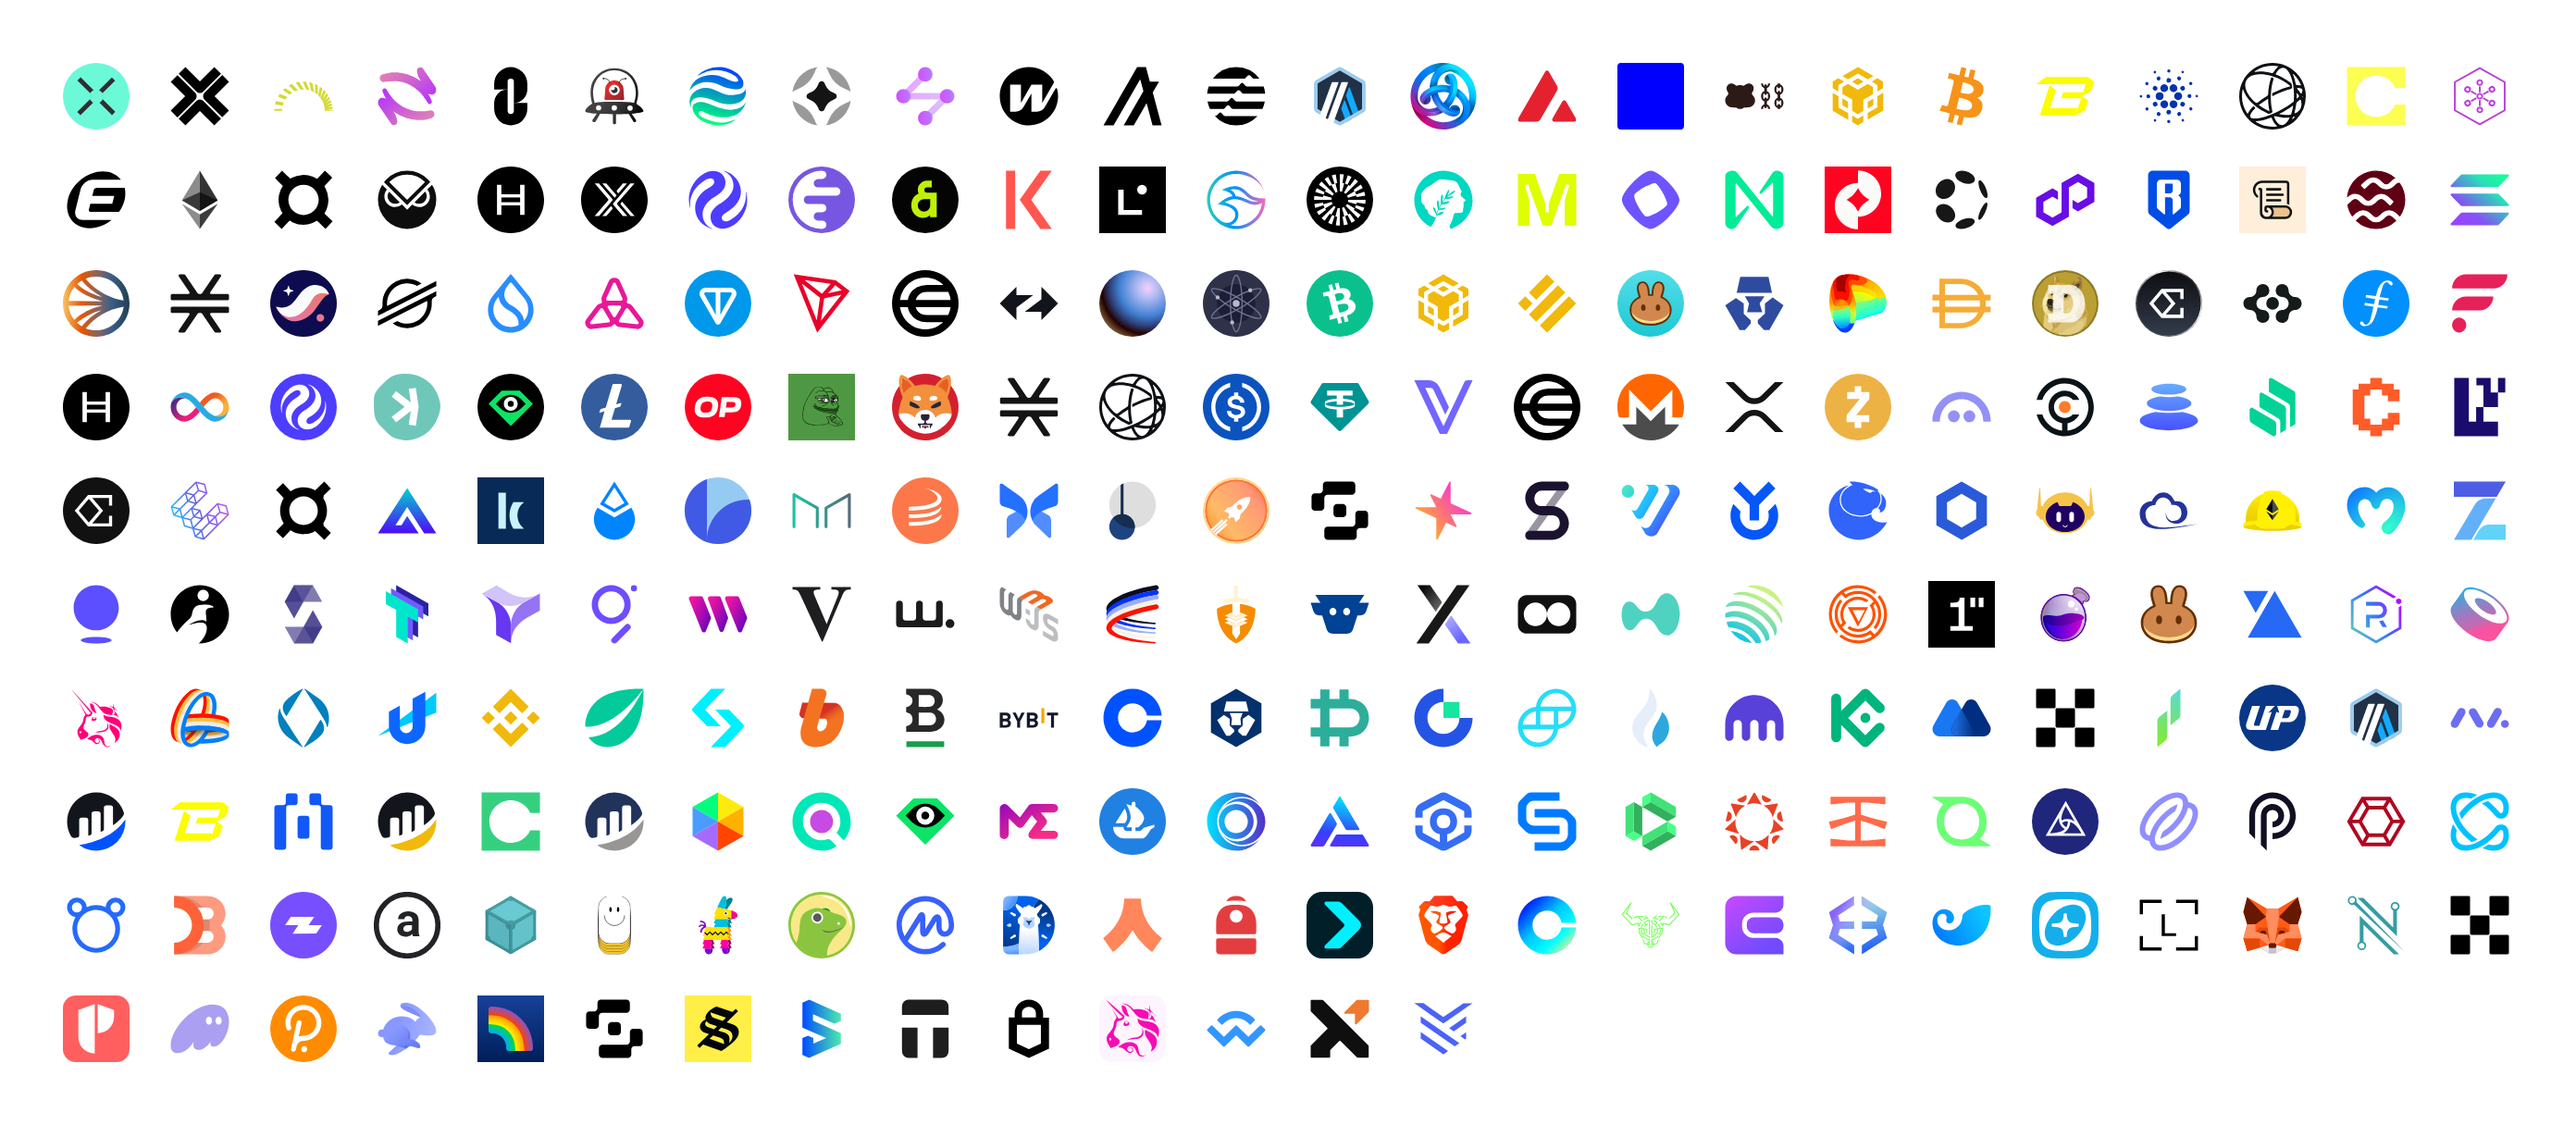
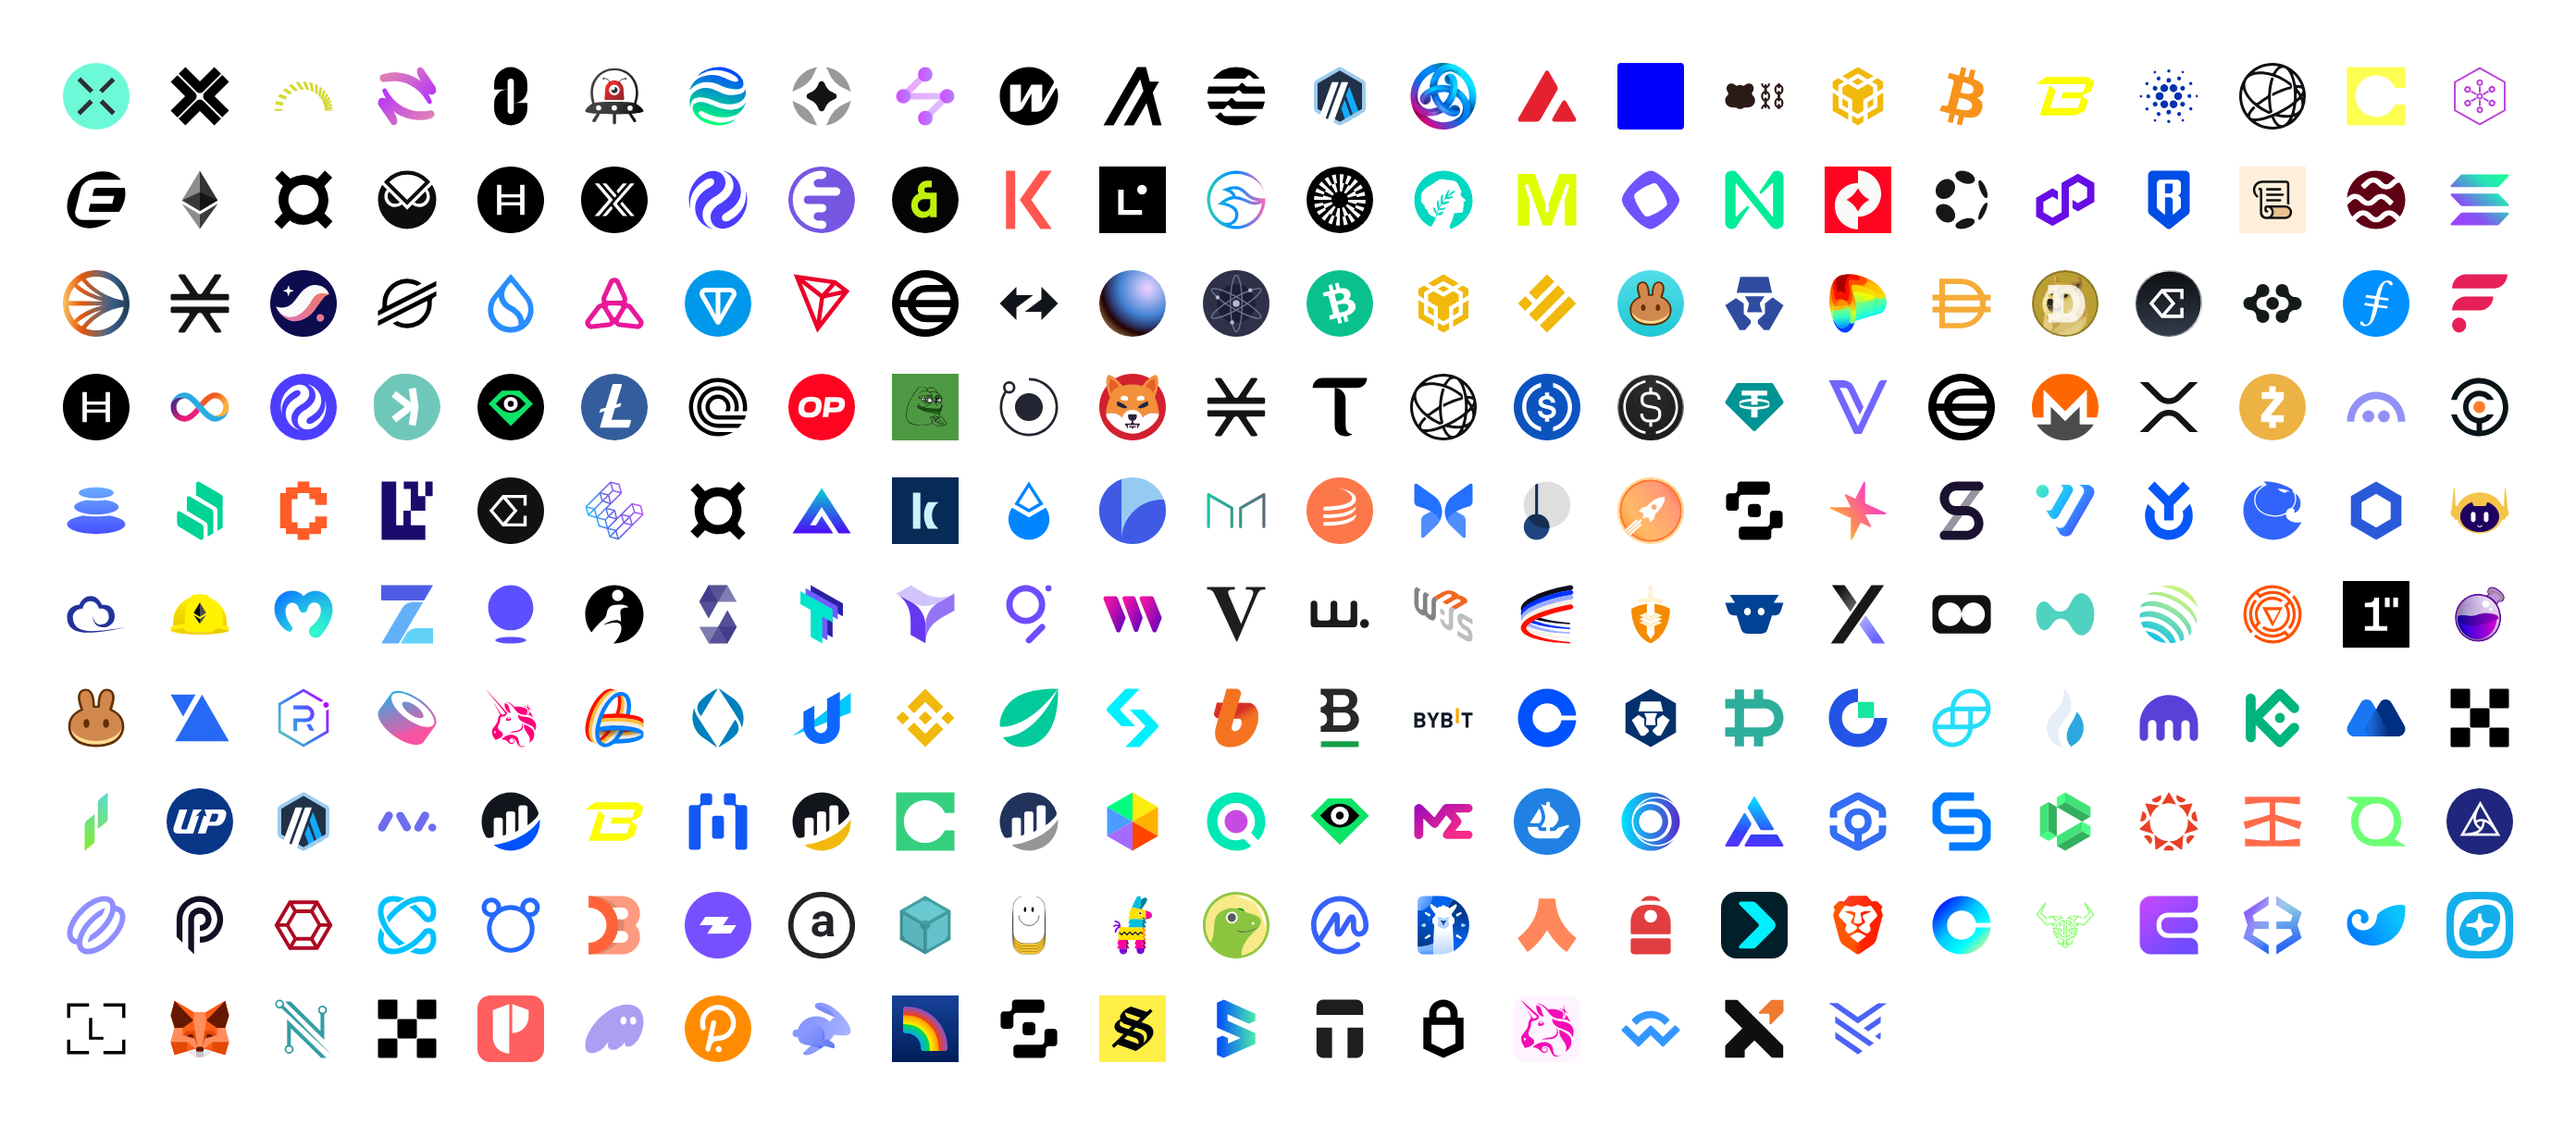
feat(coin): add Tao, Ondo, Render and Usde
Add four coin units from official brand assets (#708), each with a
Default and a Mono variant and its ticker:

- Tao (TAO): Bittensor_symbol_black_AF_RGB.svg from the Opentensor
  Foundation media kit (opentensor/developer-docs)
- Ondo (ONDO): Ondo Icon.svg from the Ondo Media Kit
- Render (RENDER, RNDR): the symbol of rendernetwork.com's
  logo-footer.svg lockup
- Usde (USDE): ethena.fi/shared/usde.svg, a container on the grid

Claude-Session: https://claude.ai/code/session_0113jxgcTGsEPf2j7H39sjZS

Changed region(s): [[0.0, 0.3125, 1.0, 0.9688]]

diff --git a/src/coin/Usde.tsx b/src/coin/Usde.tsx
@@ -1,0 +1,78 @@
+import { createIcon } from '../utils';
+
+// Source: https://ethena.fi/shared/usde.svg (official site; media assets: https://docs.ethena.fi/resources/media-assets)
+// Colored: the official usde.svg unchanged (#111111 disc under a #3A3A3A to #1C1C1C radial highlight at 0.7 opacity, white side arcs and $, white to #111111 rim stroke), with its gradient ids renamed; placed on the 64 grid as a container
+// Mono: the disc (out to the rim stroke) in currentColor with the two arcs and the $ of the same paths knocked out (evenodd); the radial highlight and the rim gradient are shading and are dropped
+/** Usde coin icon (colored). */
+export const Usde = /* @__PURE__ */ createIcon(
+  'Usde',
+  '0 0 64 64',
+  (_props, _id) => (
+    <g transform="translate(-.06 -.06)scale(.16112)">
+      <path
+        fill="#111111"
+        stroke="#111111"
+        strokeWidth="7.05"
+        d="M199 7.53c105.75 0 191.48 85.72 191.48 191.47S304.75 390.49 199 390.49 7.52 304.75 7.52 199.01V199C7.52 93.25 93.25 7.53 199 7.53Z"
+      />
+      <path
+        fill={`url(#${_id}-usde-a)`}
+        fillOpacity=".7"
+        d="M199 4C91.3 4 4 91.3 4 199s87.3 195 195 195 195-87.3 195-195S306.7 4 199 4"
+      />
+      <path
+        stroke={`url(#${_id}-usde-b)`}
+        strokeWidth="7.14"
+        d="M199 4C91.3 4 4 91.3 4 199s87.3 195 195 195 195-87.3 195-195S306.7 4 199 4Z"
+      />
+      <path
+        fill="white"
+        fillRule="evenodd"
+        d="M167.8 38.56c-75.3 14.5-132.2 80.76-132.2 160.3s56.9 145.8 132.2 160.3v-15.3c-66.97-14.27-117.2-73.77-117.2-145s50.23-130.72 117.2-145zm62.4 15.36v-15.3c75.17 14.6 131.92 80.8 131.92 160.24S305.37 344.5 230.2 359.11v-15.3c66.83-14.39 116.92-73.82 116.92-144.95S297.03 68.3 230.2 53.92"
+        clipRule="evenodd"
+      />
+      <path
+        fill="white"
+        d="M222.12 193.4q18.69 3.57 28.98 13.74 10.3 9.93 10.3 25.44v16.28q0 18.56-13.41 30-13.41 11.2-35.21 11.2h-5.03V316H190.5v-25.94h-5.27q-14.37 0-25.4-6.36-11.01-6.6-17.24-18.31-6-11.96-5.99-27.47h17.25q0 15.77 8.62 25.69 8.87 9.66 23.24 9.66h26.59q14.13 0 22.75-6.61 8.63-6.87 8.63-17.8v-16.28q0-8.66-6.47-14.76-6.23-6.1-17.25-7.88l-43.11-7.63q-18.2-3.3-28.27-13.74-10.05-10.42-10.06-26.2v-13.73q0-18.57 12.93-29.5 13.18-11.2 34.74-11.2h4.31V82h17.25v25.94h5.5q20.37 0 32.82 13.23 12.45 12.98 12.46 34.34h-17.25q0-14-7.66-22.38-7.67-8.4-20.36-8.4h-27.07q-13.65 0-21.8 6.61-8.14 6.36-8.14 17.3v13.74q0 8.9 5.98 15 6.24 6.1 17.01 8.14z"
+      />
+      <defs>
+        <radialGradient
+          id={`${_id}-usde-a`}
+          cx="0"
+          cy="0"
+          r="1"
+          gradientTransform="matrix(0 411.151 -289.409 0 199.42 60.95)"
+          gradientUnits="userSpaceOnUse"
+        >
+          <stop offset=".03" stopColor="#3A3A3A" />
+          <stop offset="1" stopColor="#1C1C1C" />
+        </radialGradient>
+        <linearGradient
+          id={`${_id}-usde-b`}
+          x1="199"
+          x2="199"
+          y1=".32"
+          y2="397.69"
+          gradientUnits="userSpaceOnUse"
+        >
+          <stop stopColor="white" />
+          <stop offset="1" stopColor="#111111" />
+        </linearGradient>
+      </defs>
+    </g>
+  ),
+  { fill: 'none', ids: true },
+);
+
+/** Usde coin icon (monochrome). */
+export const UsdeMono = /* @__PURE__ */ createIcon(
+  'UsdeMono',
+  '0 0 64 64',
+  () => (
+    <path
+      fillRule="evenodd"
+      d="M32 0a32 32 0 1 0 0 64 32 32 0 1 0 0-64m-5.03 6.15C14.84 8.5 5.67 19.16 5.67 31.98s9.17 23.49 21.3 25.83v-2.47C16.18 53.04 8.1 43.45 8.1 31.98s8.1-21.06 18.88-23.36zm10.06 2.48V6.16c12.1 2.35 21.25 13.02 21.25 25.82S49.14 55.44 37.03 57.8v-2.47c10.76-2.32 18.84-11.9 18.84-23.35S47.79 10.94 37.03 8.63m-1.3 22.47q3 .57 4.66 2.21 1.66 1.6 1.66 4.1v2.62q0 3-2.16 4.84-2.16 1.8-5.67 1.8h-.81v4.18h-2.78v-4.18h-.85q-2.31 0-4.1-1.02-1.76-1.07-2.77-2.95-.96-1.93-.96-4.43h2.78q0 2.54 1.38 4.14 1.43 1.56 3.75 1.56h4.28q2.28 0 3.67-1.07 1.39-1.1 1.39-2.87v-2.62q0-1.4-1.04-2.38-1-.98-2.78-1.27l-6.95-1.23q-2.93-.53-4.55-2.21t-1.62-4.22v-2.21q0-3 2.08-4.76 2.12-1.8 5.6-1.8h.7v-4.18h2.77v4.18h.89q3.28 0 5.28 2.13 2.01 2.1 2.01 5.53h-2.78q0-2.25-1.23-3.6-1.24-1.36-3.28-1.36h-4.36q-2.2 0-3.52 1.07-1.3 1.02-1.3 2.79v2.21q0 1.43.96 2.42 1 .98 2.74 1.3z"
+    />
+  ),
+  { fill: 'currentColor' },
+);

diff --git a/src/coin/Render.tsx b/src/coin/Render.tsx
@@ -1,0 +1,33 @@
+import { createIcon } from '../utils';
+
+// Source: https://rendernetwork.com/api/medias/file/logo-footer.svg (official Render Network site lockup; the Render Network Foundation press page, https://renderfoundation.com/press, offers the logos as PNG only)
+// Colored: the symbol (ring with its satellite and the centre dot, one #242532 evenodd path) copied unchanged out of the official logo-footer.svg lockup (the Render Network lettering is left out), placed on the 64 grid
+// Mono: the same path in currentColor
+/** Render coin icon (colored). */
+export const Render = /* @__PURE__ */ createIcon(
+  'Render',
+  '0 0 64 64',
+  () => (
+    <path
+      fill="#242532"
+      fillRule="evenodd"
+      d="M32 4c7.47 0 14.51 2.92 19.79 8.2C57.1 17.5 60 24.52 60 32s-2.92 14.51-8.2 19.8C46.5 57.1 39.48 60 32 60s-14.51-2.92-19.8-8.2C6.9 46.5 4 39.48 4 32c0-5.41 1.52-10.62 4.43-15.1a5.8 5.8 0 0 1-1.37-3.82 6.03 6.03 0 0 1 6.02-6.02 6.03 6.03 0 0 1 6.02 6.02 6.03 6.03 0 0 1-6.02 6.02q-1.5-.02-2.77-.68a25.7 25.7 0 0 0-3.9 13.57c0 6.83 2.66 13.26 7.5 18.08A25.4 25.4 0 0 0 32 57.58c6.84 0 13.25-2.66 18.08-7.49A25.4 25.4 0 0 0 57.58 32c0-6.84-2.66-13.27-7.5-18.08A25.4 25.4 0 0 0 32 6.4zm-15.32 9.08a3.6 3.6 0 0 0-3.6-3.6 3.6 3.6 0 0 0-3.6 3.62 3.6 3.6 0 0 0 3.62 3.6 3.6 3.6 0 0 0 3.6-3.61M45.4 32c0 7.4-6 13.4-13.4 13.4s-13.4-6-13.4-13.4 6-13.4 13.4-13.4 13.4 6 13.4 13.4"
+      clipRule="evenodd"
+    />
+  ),
+  {},
+);
+
+/** Render coin icon (monochrome). */
+export const RenderMono = /* @__PURE__ */ createIcon(
+  'RenderMono',
+  '0 0 64 64',
+  () => (
+    <path
+      fillRule="evenodd"
+      d="M32 4c7.47 0 14.51 2.92 19.79 8.2C57.1 17.5 60 24.52 60 32s-2.92 14.51-8.2 19.8C46.5 57.1 39.48 60 32 60s-14.51-2.92-19.8-8.2C6.9 46.5 4 39.48 4 32c0-5.41 1.52-10.62 4.43-15.1a5.8 5.8 0 0 1-1.37-3.82 6.03 6.03 0 0 1 6.02-6.02 6.03 6.03 0 0 1 6.02 6.02 6.03 6.03 0 0 1-6.02 6.02q-1.5-.02-2.77-.68a25.7 25.7 0 0 0-3.9 13.57c0 6.83 2.66 13.26 7.5 18.08A25.4 25.4 0 0 0 32 57.58c6.84 0 13.25-2.66 18.08-7.49A25.4 25.4 0 0 0 57.58 32c0-6.84-2.66-13.27-7.5-18.08A25.4 25.4 0 0 0 32 6.4zm-15.32 9.08a3.6 3.6 0 0 0-3.6-3.6 3.6 3.6 0 0 0-3.6 3.62 3.6 3.6 0 0 0 3.62 3.6 3.6 3.6 0 0 0 3.6-3.61M45.4 32c0 7.4-6 13.4-13.4 13.4s-13.4-6-13.4-13.4 6-13.4 13.4-13.4 13.4 6 13.4 13.4"
+      clipRule="evenodd"
+    />
+  ),
+  { fill: 'currentColor' },
+);

diff --git a/src/coin/Ondo.tsx b/src/coin/Ondo.tsx
@@ -1,0 +1,41 @@
+import { createIcon } from '../utils';
+
+// Source: https://www.notion.so/Ondo-Media-Kit-3bc0a5aced014cc4b0ef62f1638bbf8e (official Ondo Media Kit, linked from https://docs.ondo.finance/ondo-stocks/partners-and-media)
+// Colored: the kit's Ondo Icon.svg (Ondo Icon section), its three black paths unchanged, placed on the 64 grid
+// Mono: the same three paths in currentColor
+/** Ondo coin icon (colored). */
+export const Ondo = /* @__PURE__ */ createIcon(
+  'Ondo',
+  '0 0 64 64',
+  () => (
+    <>
+      <path
+        fill="black"
+        d="M24.01 32c0-4.4 3.58-7.98 8-7.98S40 27.59 40 32a8 8 0 0 1-1.08 4h4.39q.67-1.9.68-4c0-6.62-5.37-12-11.99-12s-11.99 5.38-11.99 12 5.37 12 12 12h25.28a27 27 0 0 0 1.53-4H32a8 8 0 0 1-7.99-8"
+      />
+      <path
+        fill="black"
+        d="M16.02 32c0-8.82 7.15-15.98 15.98-15.98s16 7.16 16 15.99a16 16 0 0 1-.51 4h4.1q.4-1.95.4-4c0-11.04-8.95-19.99-19.99-19.99s-19.98 8.95-19.98 19.99S20.96 52 32 52h19.58a28 28 0 0 0 3.39-4H32c-8.83 0-15.98-7.16-15.98-16"
+      />
+      <path
+        fill="black"
+        d="M32 4.03C16.55 4.03 4.02 16.55 4.02 32S16.55 59.99 32 59.99c5.27 0 10.2-1.46 14.42-4H32C18.76 56 8.01 45.26 8.01 32.01s10.75-23.99 24-23.99 23.98 10.74 23.98 23.99q0 2.04-.34 4h4.05l.13-1.01.03-.41q.06-.57.09-1.14l.02-.72.01-.72C59.98 16.55 47.46 4.02 32 4.02"
+      />
+    </>
+  ),
+  {},
+);
+
+/** Ondo coin icon (monochrome). */
+export const OndoMono = /* @__PURE__ */ createIcon(
+  'OndoMono',
+  '0 0 64 64',
+  () => (
+    <>
+      <path d="M24.01 32c0-4.4 3.58-7.98 8-7.98S40 27.59 40 32a8 8 0 0 1-1.08 4h4.39q.67-1.9.68-4c0-6.62-5.37-12-11.99-12s-11.99 5.38-11.99 12 5.37 12 12 12h25.28a27 27 0 0 0 1.53-4H32a8 8 0 0 1-7.99-8" />
+      <path d="M16.02 32c0-8.82 7.15-15.98 15.98-15.98s16 7.16 16 15.99a16 16 0 0 1-.51 4h4.1q.4-1.95.4-4c0-11.04-8.95-19.99-19.99-19.99s-19.98 8.95-19.98 19.99S20.96 52 32 52h19.58a28 28 0 0 0 3.39-4H32c-8.83 0-15.98-7.16-15.98-16" />
+      <path d="M32 4.03C16.55 4.03 4.02 16.55 4.02 32S16.55 59.99 32 59.99c5.27 0 10.2-1.46 14.42-4H32C18.76 56 8.01 45.26 8.01 32.01s10.75-23.99 24-23.99 23.98 10.74 23.98 23.99q0 2.04-.34 4h4.05l.13-1.01.03-.41q.06-.57.09-1.14l.02-.72.01-.72C59.98 16.55 47.46 4.02 32 4.02" />
+    </>
+  ),
+  { fill: 'currentColor' },
+);

diff --git a/src/manifest/index.ts b/src/manifest/index.ts
@@ -869,6 +869,8 @@ export const ICON_MANIFEST: readonly IconManifestEntry[] = [
   { name: 'MonadMono', category: 'coin' },
   { name: 'Near', category: 'coin', ticker: 'NEAR' },
   { name: 'NearMono', category: 'coin' },
+  { name: 'Ondo', category: 'coin', ticker: 'ONDO', variants: ['', 'Mono'] },
+  { name: 'OndoMono', category: 'coin' },
   {
     name: 'Op',
     category: 'coin',
@@ -893,6 +895,14 @@ export const ICON_MANIFEST: readonly IconManifestEntry[] = [
   { name: 'PolMono', category: 'coin' },
   { name: 'Pyth', category: 'coin', ticker: 'PYTH' },
   { name: 'PythMono', category: 'coin' },
+  {
+    name: 'Render',
+    category: 'coin',
+    ticker: 'RENDER',
+    variants: ['', 'Mono'],
+    brandColor: '#242532',
+  },
+  { name: 'RenderMono', category: 'coin' },
   { name: 'Ronin', category: 'coin', ticker: 'RON' },
   { name: 'RoninMono', category: 'coin' },
   { name: 'Sei', category: 'coin', ticker: 'SEI' },
@@ -929,6 +939,8 @@ export const ICON_MANIFEST: readonly IconManifestEntry[] = [
   { name: 'SuiMono', category: 'coin' },
   { name: 'Taiko', category: 'coin', ticker: 'TAIKO' },
   { name: 'TaikoMono', category: 'coin' },
+  { name: 'Tao', category: 'coin', ticker: 'TAO', variants: ['', 'Mono'] },
+  { name: 'TaoMono', category: 'coin' },
   {
     name: 'Tia',
     category: 'coin',
@@ -953,6 +965,14 @@ export const ICON_MANIFEST: readonly IconManifestEntry[] = [
   { name: 'UsdcCircle', category: 'coin' },
   { name: 'UsdcCircleMono', category: 'coin' },
   { name: 'UsdcMono', category: 'coin' },
+  {
+    name: 'Usde',
+    category: 'coin',
+    ticker: 'USDE',
+    variants: ['', 'Mono'],
+    brandColor: '#111111',
+  },
+  { name: 'UsdeMono', category: 'coin' },
   {
     name: 'Usdt',
     category: 'coin',

diff --git a/src/dynamic/imports/coin.ts b/src/dynamic/imports/coin.ts
@@ -112,6 +112,8 @@ export const coinImports: Record<
   MonadMono: () => import('../../coin/Monad'),
   Near: () => import('../../coin/Near'),
   NearMono: () => import('../../coin/Near'),
+  Ondo: () => import('../../coin/Ondo'),
+  OndoMono: () => import('../../coin/Ondo'),
   Op: () => import('../../coin/Op'),
   OpCircle: () => import('../../coin/Op'),
   OpCircleMono: () => import('../../coin/Op'),
@@ -124,6 +126,8 @@ export const coinImports: Record<
   PolMono: () => import('../../coin/Pol'),
   Pyth: () => import('../../coin/Pyth'),
   PythMono: () => import('../../coin/Pyth'),
+  Render: () => import('../../coin/Render'),
+  RenderMono: () => import('../../coin/Render'),
   Ronin: () => import('../../coin/Ronin'),
   RoninMono: () => import('../../coin/Ronin'),
   Sei: () => import('../../coin/Sei'),
@@ -148,6 +152,8 @@ export const coinImports: Record<
   SuiMono: () => import('../../coin/Sui'),
   Taiko: () => import('../../coin/Taiko'),
   TaikoMono: () => import('../../coin/Taiko'),
+  Tao: () => import('../../coin/Tao'),
+  TaoMono: () => import('../../coin/Tao'),
   Tia: () => import('../../coin/Tia'),
   TiaMono: () => import('../../coin/Tia'),
   Ton: () => import('../../coin/Ton'),
@@ -160,6 +166,8 @@ export const coinImports: Record<
   UsdcCircle: () => import('../../coin/Usdc'),
   UsdcCircleMono: () => import('../../coin/Usdc'),
   UsdcMono: () => import('../../coin/Usdc'),
+  Usde: () => import('../../coin/Usde'),
+  UsdeMono: () => import('../../coin/Usde'),
   Usdt: () => import('../../coin/Usdt'),
   UsdtCircle: () => import('../../coin/Usdt'),
   UsdtCircleMono: () => import('../../coin/Usdt'),

diff --git a/src/coin/Tao.tsx b/src/coin/Tao.tsx
@@ -1,0 +1,30 @@
+import { createIcon } from '../utils';
+
+// Source: https://github.com/opentensor/developer-docs/blob/f6dd8e948952a7bb7ceab6f67d07d7c6d992e995/static/bittensor-media-assets/Bittensor-mediaassets-2024Dec02.zip (official Bittensor media assets of the Opentensor Foundation, the kit the Bittensor docs' Media Assets page linked)
+// Colored: the kit's TAO symbol, Bittensor community assets/Symbol/Black/RGB/Bittensor_symbol_black_AF_RGB.svg, its two paths unchanged (black, the kit's only colours are black, white and greys), placed on the 64 grid; the kit has no token disc
+// Mono: the same two paths in currentColor
+/** Tao coin icon (colored). */
+export const Tao = /* @__PURE__ */ createIcon(
+  'Tao',
+  '0 0 64 64',
+  () => (
+    <>
+      <path d="M37.55 46.97V24c0-5.73-4.73-10.4-10.47-10.4v36.68c0 7.3 6.2 9.71 10.02 9.71 3.17 0 4.96-.55 7.11-2.06-6.03-.64-6.66-4.28-6.66-10.97" />
+      <path d="M15.42 4c-5.27 0-9.55 4.35-9.55 9.62h42.71c5.27 0 9.55-4.36 9.55-9.62z" />
+    </>
+  ),
+  {},
+);
+
+/** Tao coin icon (monochrome). */
+export const TaoMono = /* @__PURE__ */ createIcon(
+  'TaoMono',
+  '0 0 64 64',
+  () => (
+    <>
+      <path d="M37.55 46.97V24c0-5.73-4.73-10.4-10.47-10.4v36.68c0 7.3 6.2 9.71 10.02 9.71 3.17 0 4.96-.55 7.11-2.06-6.03-.64-6.66-4.28-6.66-10.97" />
+      <path d="M15.42 4c-5.27 0-9.55 4.35-9.55 9.62h42.71c5.27 0 9.55-4.36 9.55-9.62z" />
+    </>
+  ),
+  { fill: 'currentColor' },
+);

diff --git a/src/coin/index.ts b/src/coin/index.ts
@@ -42,10 +42,12 @@ export * from './Mkr';
 export * from './Mnt';
 export * from './Monad';
 export * from './Near';
+export * from './Ondo';
 export * from './Op';
 export * from './Pepe';
 export * from './Pol';
 export * from './Pyth';
+export * from './Render';
 export * from './Ronin';
 export * from './Sei';
 export * from './Shib';
@@ -55,11 +57,13 @@ export * from './Strk';
 export * from './Stx';
 export * from './Sui';
 export * from './Taiko';
+export * from './Tao';
 export * from './Tia';
 export * from './Ton';
 export * from './Trx';
 export * from './Uni';
 export * from './Usdc';
+export * from './Usde';
 export * from './Usdt';
 export * from './Vet';
 export * from './Wld';

diff --git a/src/meta/index.ts b/src/meta/index.ts
@@ -207,10 +207,13 @@ export const TICKER_TO_COIN = {
   MNT: 'Mnt',
   MON: 'Monad',
   NEAR: 'Near',
+  ONDO: 'Ondo',
   OP: 'Op',
   PEPE: 'Pepe',
   POL: 'Pol',
   PYTH: 'Pyth',
+  RENDER: 'Render',
+  RNDR: 'Render',
   RON: 'Ronin',
   S: 'Sonic',
   SEI: 'Sei',
@@ -220,11 +223,13 @@ export const TICKER_TO_COIN = {
   STX: 'Stx',
   SUI: 'Sui',
   TAIKO: 'Taiko',
+  TAO: 'Tao',
   TIA: 'Tia',
   TON: 'Ton',
   TRX: 'Trx',
   UNI: 'Uni',
   USDC: 'Usdc',
+  USDE: 'Usde',
   USDT: 'Usdt',
   VET: 'Vet',
   WLD: 'Wld',

diff --git a/.changeset/new-coins-tao-ondo-render-usde.md b/.changeset/new-coins-tao-ondo-render-usde.md
@@ -1,0 +1,10 @@
+---
+"react-web3-icons": minor
+---
+
+Add coin icons from official brand assets (#708), each with a `Mono` variant and its ticker in `TICKER_TO_COIN` / `<CoinIcon>`:
+
+- `Tao` (`TAO`): the Bittensor TAO symbol from the Opentensor Foundation media kit.
+- `Ondo` (`ONDO`): the Ondo icon from the Ondo Media Kit.
+- `Render` (`RENDER`, legacy `RNDR`): the Render Network symbol from rendernetwork.com.
+- `Usde` (`USDE`): Ethena's USDe token disc from ethena.fi.
